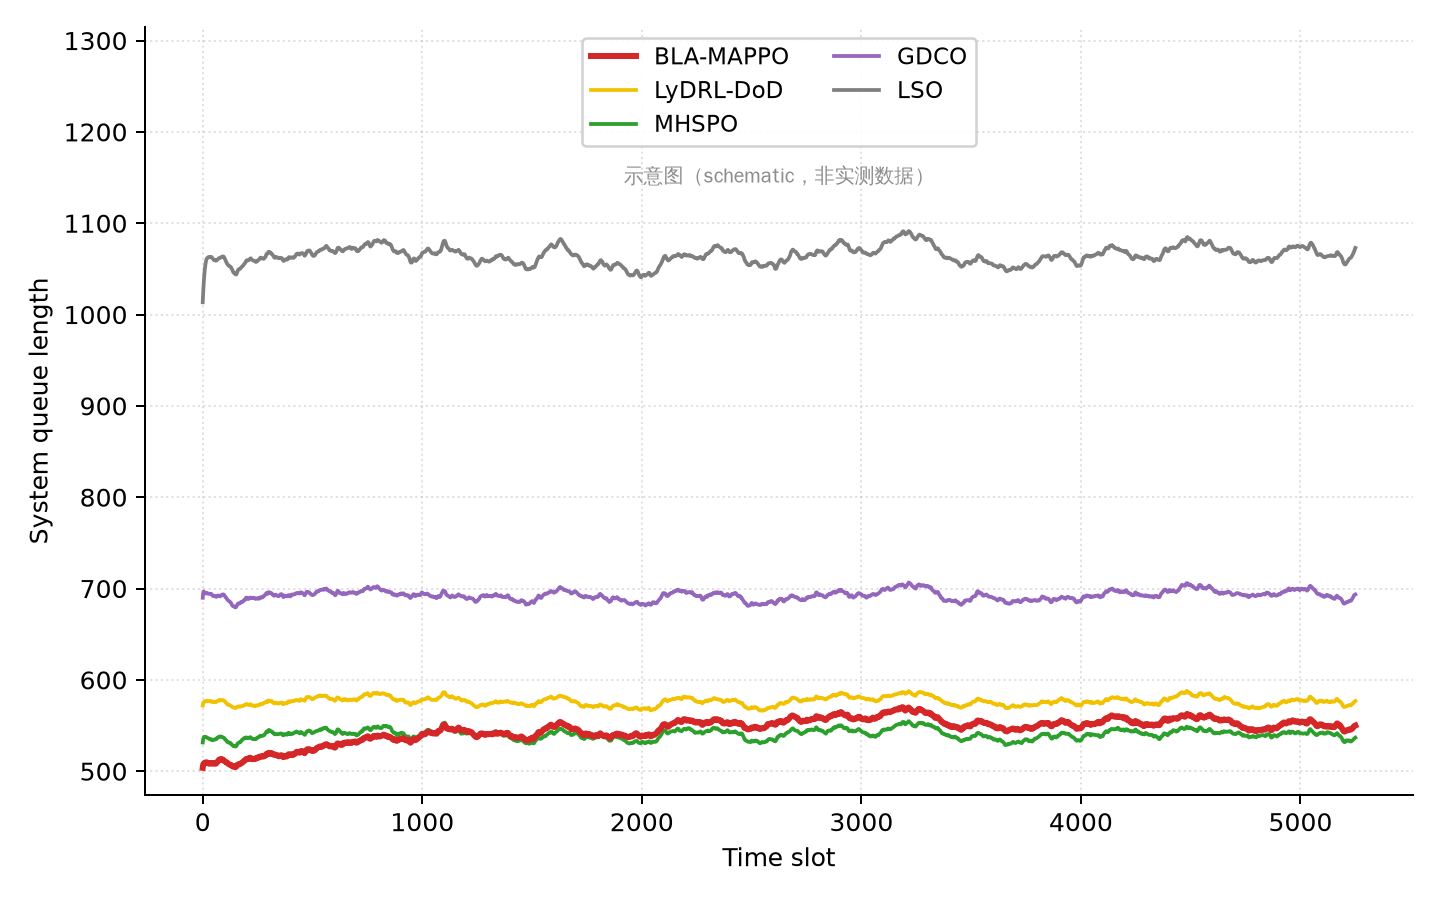
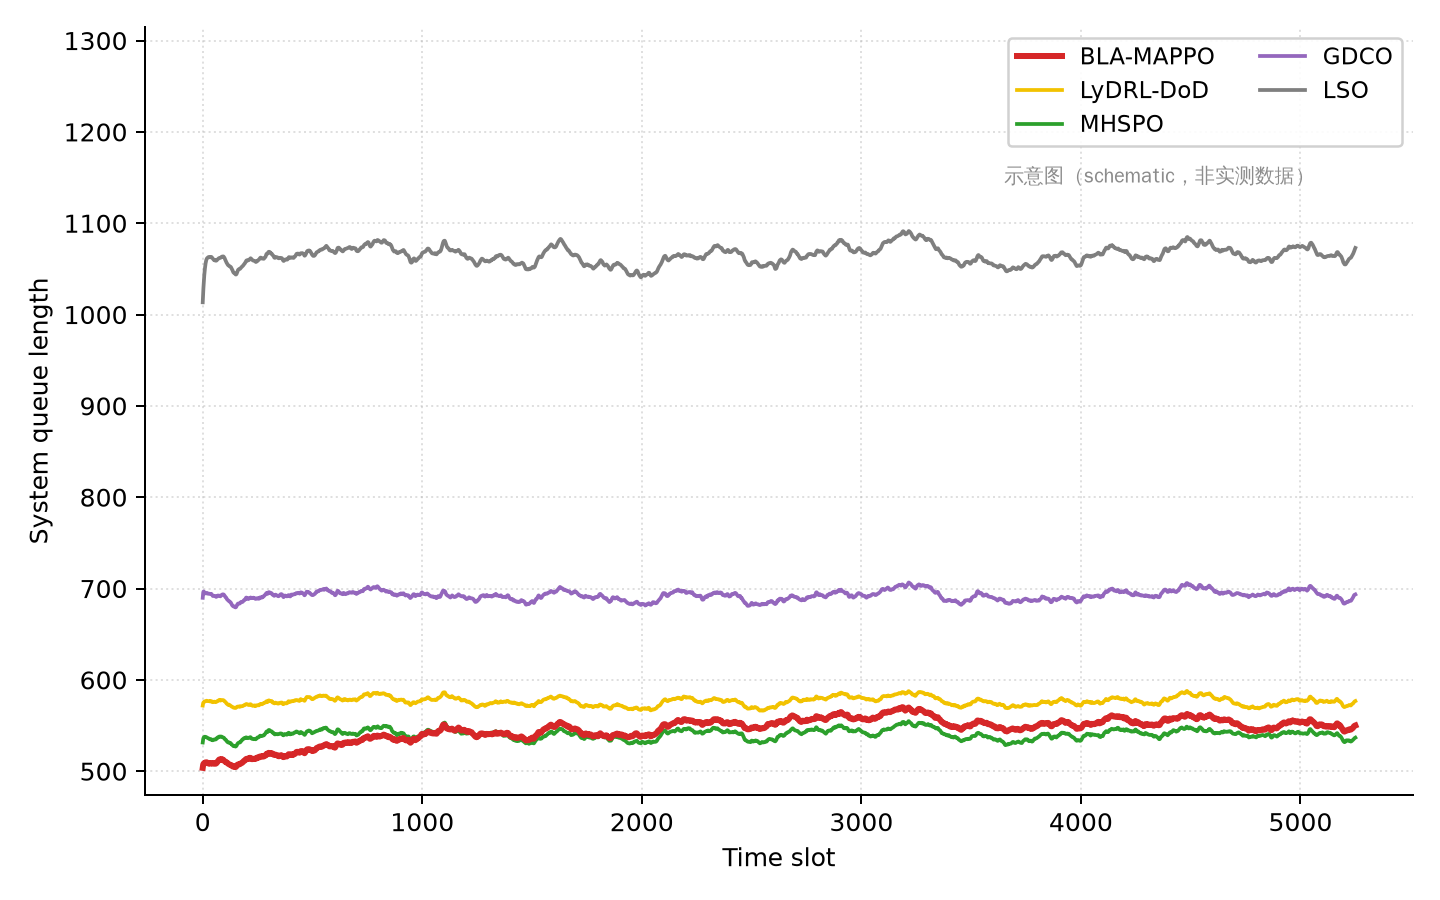
docs: schematic queue figure — move legend to top-right
Legend loc upper center -> upper right; the gray "示意图" stamp follows it.
No other changes; real n=10 figure/data untouched.

Claude-Session: https://claude.ai/code/session_01QqDUyKRCo5D79G2DJexGwi

Changed region(s): [[0.4062, 0.0311, 0.9688, 0.2178]]

diff --git a/satellite_mec/plot_queue_schematic.py b/satellite_mec/plot_queue_schematic.py
@@ -41,9 +41,9 @@ ax.set_xlabel('Time slot'); ax.set_ylabel('System queue length')
 
 # 顶部留白，图例上移到 LSO 线上方（不遮挡曲线）
 lo, hi = ax.get_ylim(); ax.set_ylim(lo, hi + (hi - lo) * 0.30)
-ax.legend(fontsize=9, ncol=2, loc='upper center', framealpha=0.9)
-# 图例下方灰色小字：示意图标识
-ax.text(0.5, 0.82, '示意图（schematic，非实测数据）', transform=ax.transAxes,
+ax.legend(fontsize=9, ncol=2, loc='upper right', framealpha=0.9)
+# 图例下方灰色小字：示意图标识（跟随图例移到右上）
+ax.text(0.80, 0.82, '示意图（schematic，非实测数据）', transform=ax.transAxes,
         ha='center', va='top', fontsize=8, color='0.55', fontproperties=CJK)
 
 ax.grid(True, ls=':', alpha=0.4)
